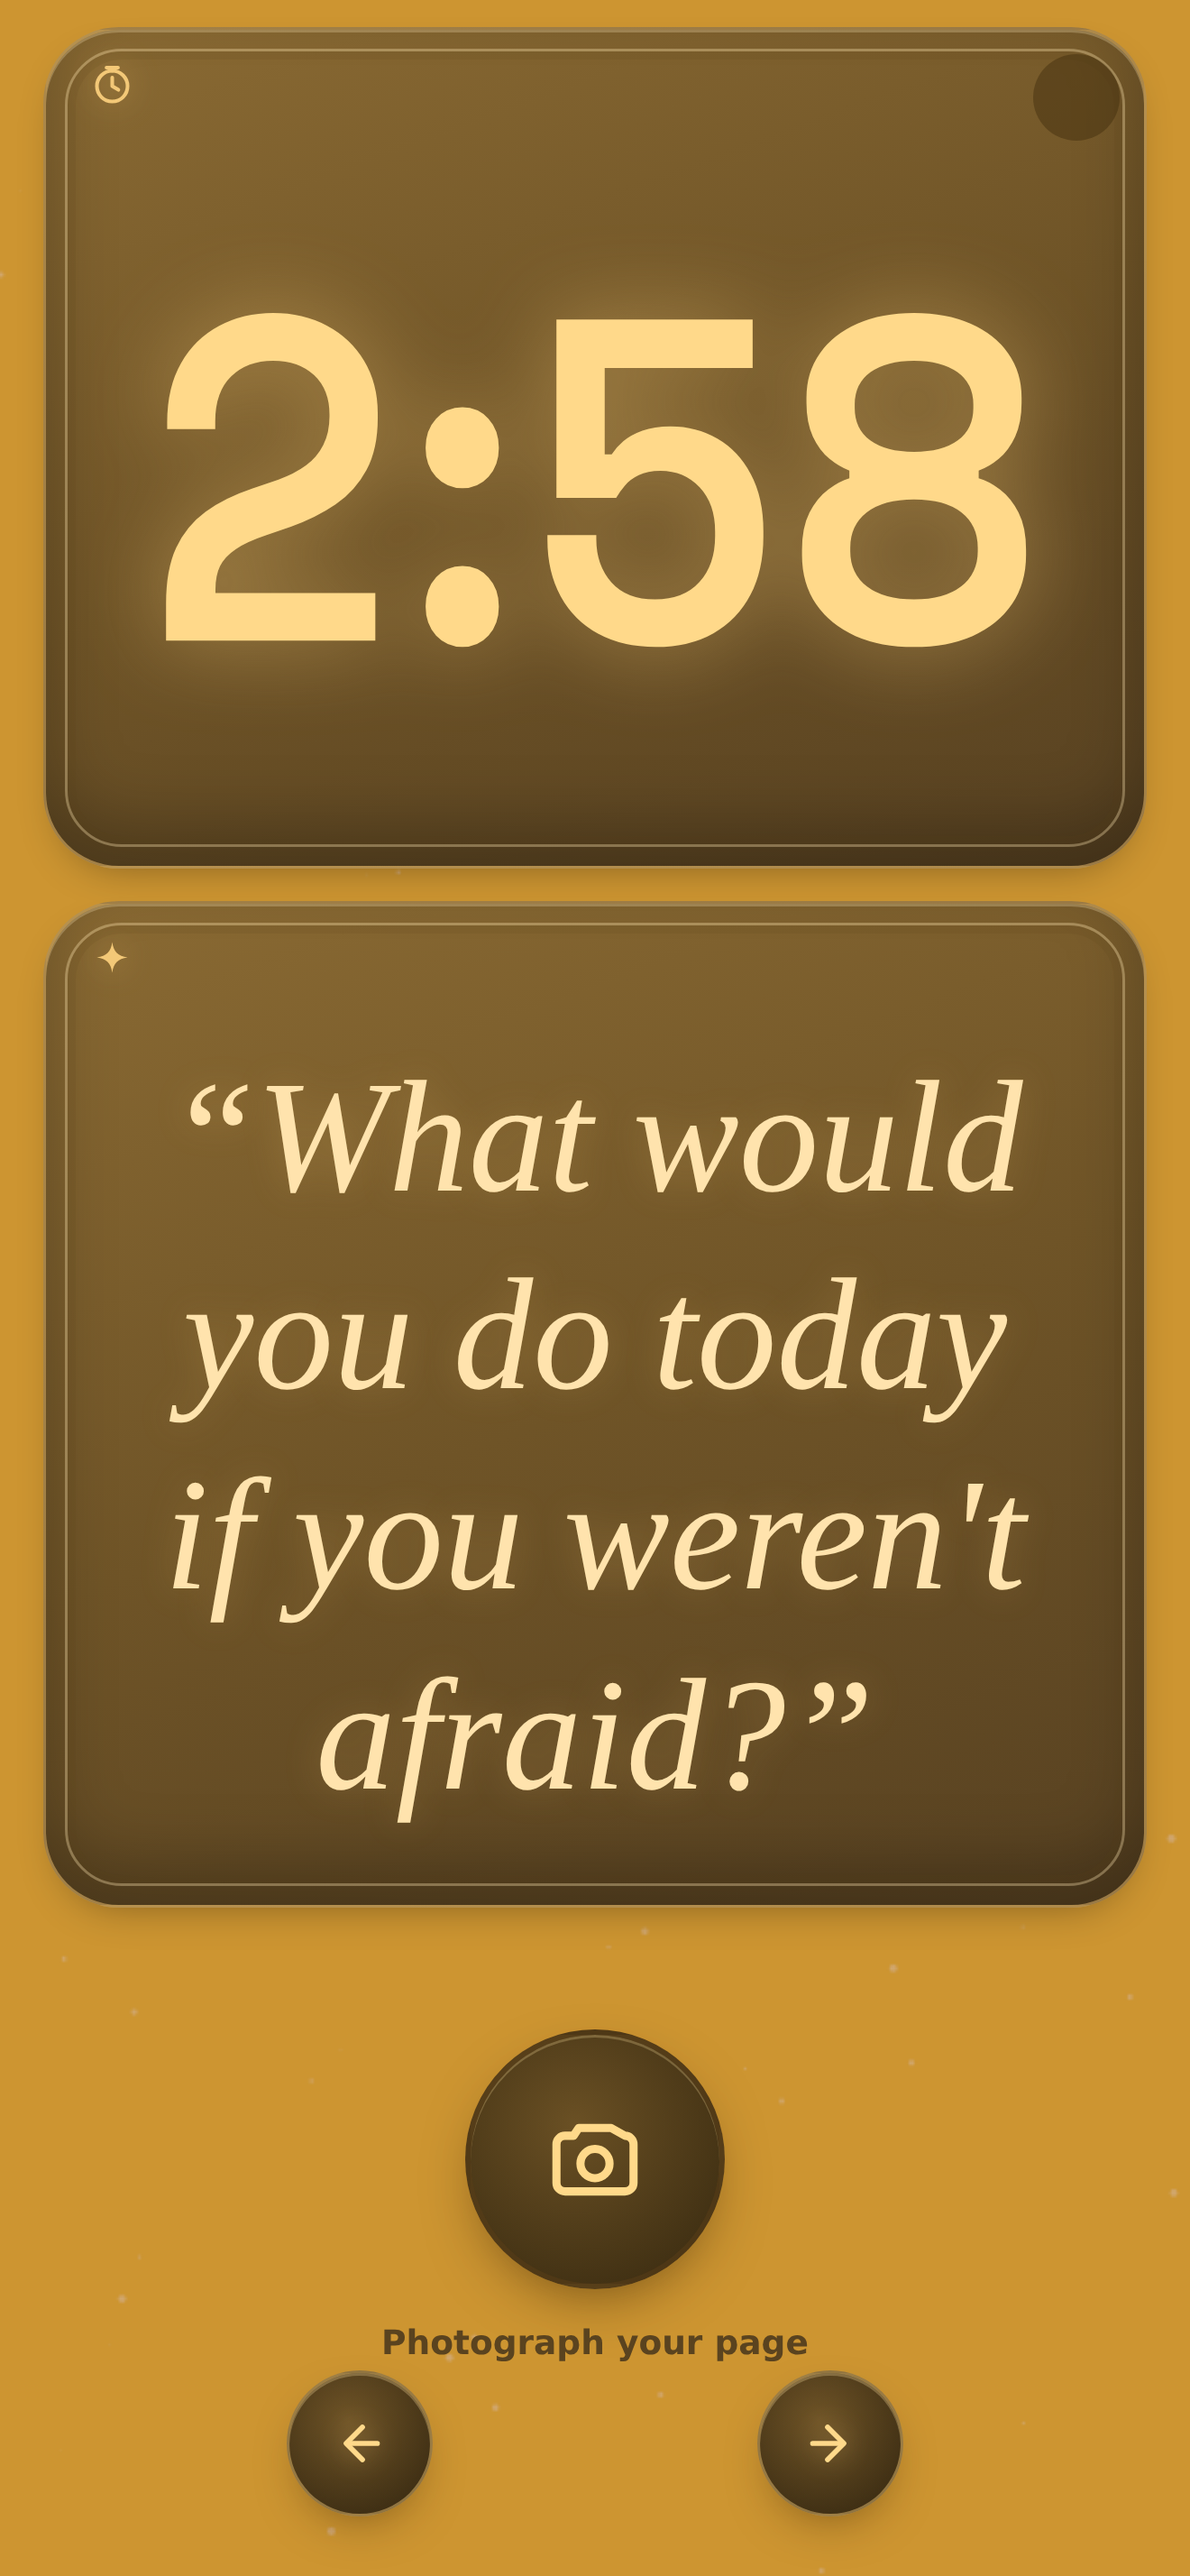
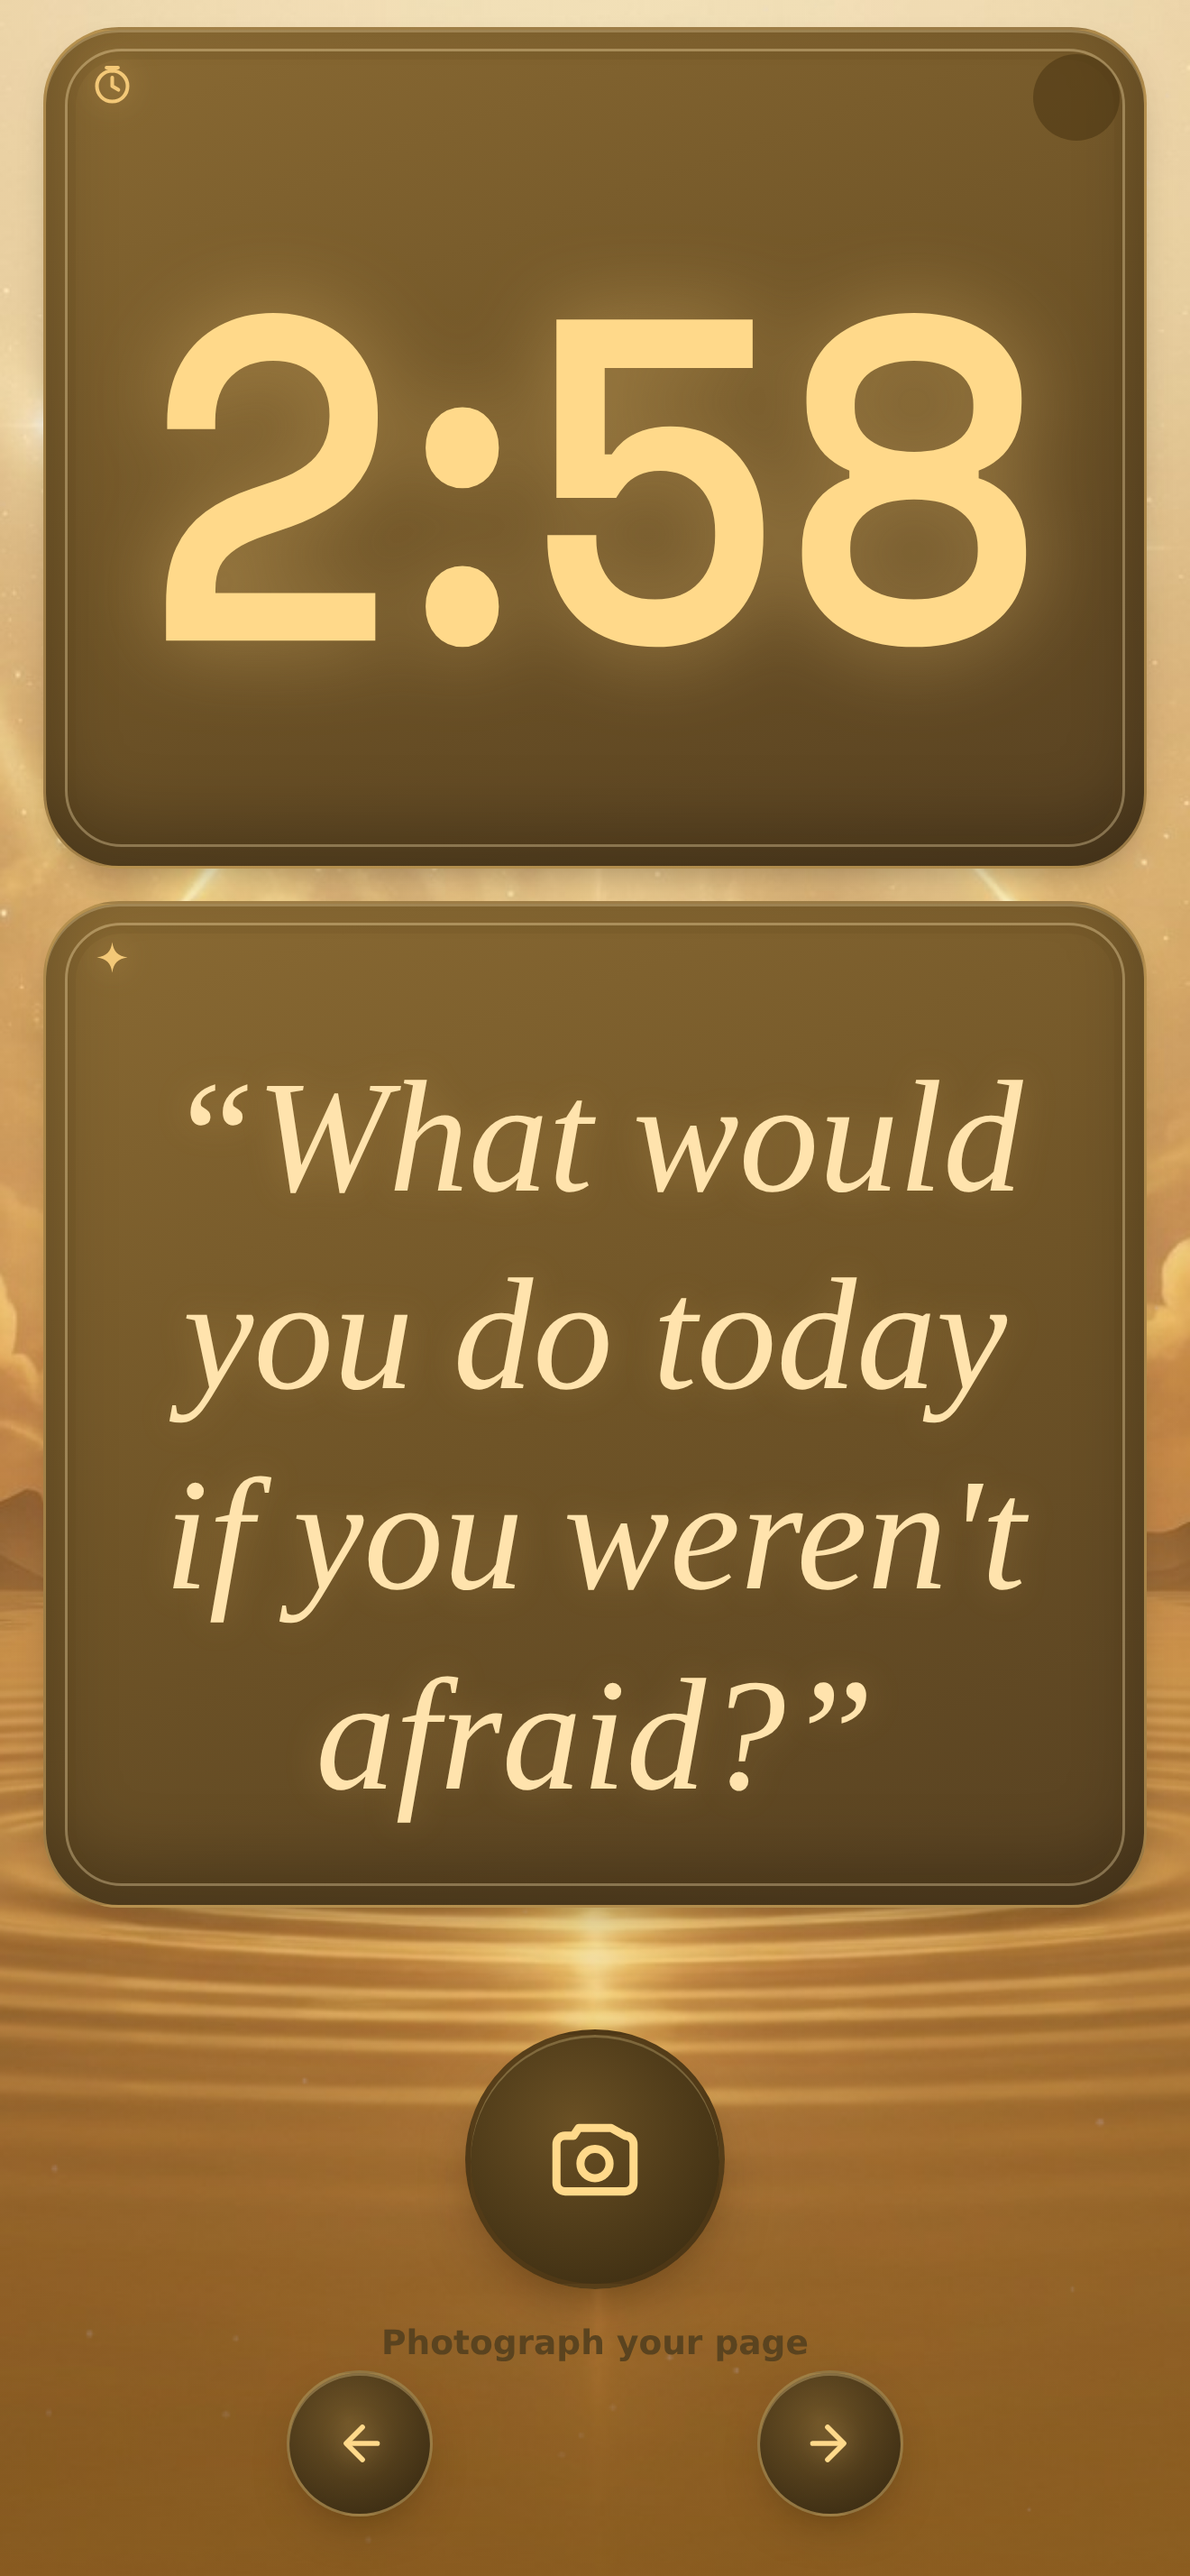
lumen: fix journal lotus-hero background regression + refresh journal screenshot (v103)
v102 moved the gold ground to a z-index:-1 ::before backdrop but also kept
background-color:#cd9531 on body. Per CSS painting order a negative-z ::before
paints BEHIND its own element's background, so the solid body gold covered the
lotus hero image — the journal write screen went flat gold on the real app, not
just in captures. Fix: body stays fully transparent (html remains the gold floor),
so the fixed ::before lotus shows again while still never scrolling / no black.
Re-captured App Store frame 3 with the hero visible.

Changed region(s): [[0.0, 0.0, 1.0, 1.0]]

diff --git a/lumen/server.py b/lumen/server.py
@@ -3256,7 +3256,9 @@ a{color:var(--purple)}
 /* the gold ground is a FIXED backdrop (own layer), so it never scrolls with the
    content and the keyboard can't reveal anything behind it. Body itself is
    transparent; the fixed ::before paints the gold; html stays gold as the floor. */
-body.jw-gold{background:transparent !important;background-color:#cd9531 !important;overflow:hidden !important;overscroll-behavior:none !important}
+/* body MUST stay fully transparent — a background-color here would paint over the
+   z-index:-1 ::before (painting order), hiding the lotus hero. html is the gold floor. */
+body.jw-gold{background:transparent !important;overflow:hidden !important;overscroll-behavior:none !important}
 body.jw-gold::before{content:"";position:fixed;inset:0;z-index:-1;pointer-events:none;
   background:linear-gradient(175deg,rgba(253,231,173,.30) 0%,rgba(246,207,131,.22) 26%,rgba(234,186,96,.18) 50%,rgba(219,167,71,.34) 78%,rgba(205,149,49,.52) 100%),url('/art/journal-hero-gold.jpg?v=94') center center / cover no-repeat,linear-gradient(175deg,#fde7ad,#cd9531);background-color:#cd9531}
 /* gold the root too, so no dark base can ever show (keyboard, overscroll, etc.) */
@@ -10429,7 +10431,7 @@ h1{color:#f5c977;font-size:26px;margin:0 0 4px}h2{color:#a855f7;font-size:17px;m
 </div></body></html>"""
 
 SERVICE_WORKER = r"""
-const CACHE = 'lumen-v102';
+const CACHE = 'lumen-v103';
 const STATIC = ['icon-192.png', 'icon-512.png', 'manifest.webmanifest'];
 self.addEventListener('install', e => {
   self.skipWaiting();
